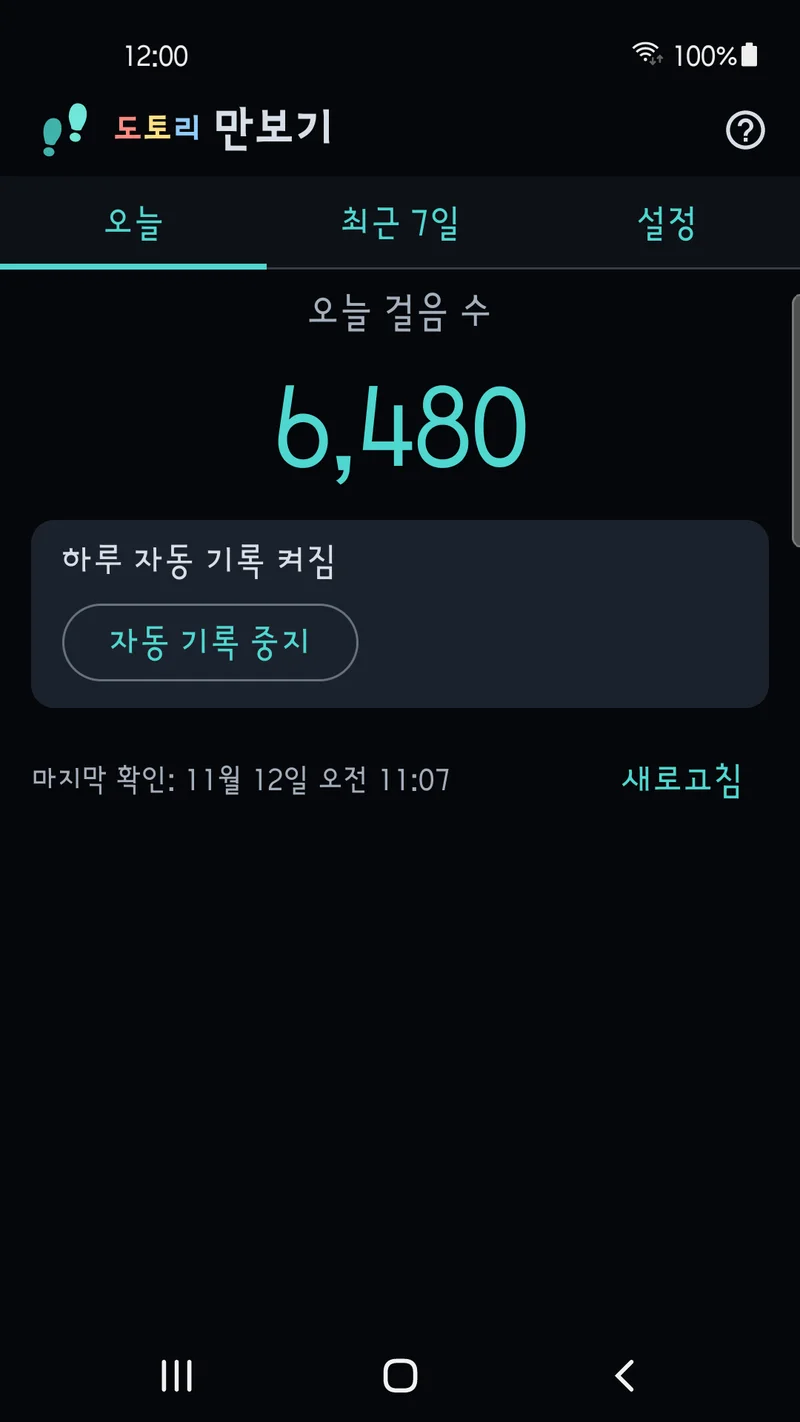
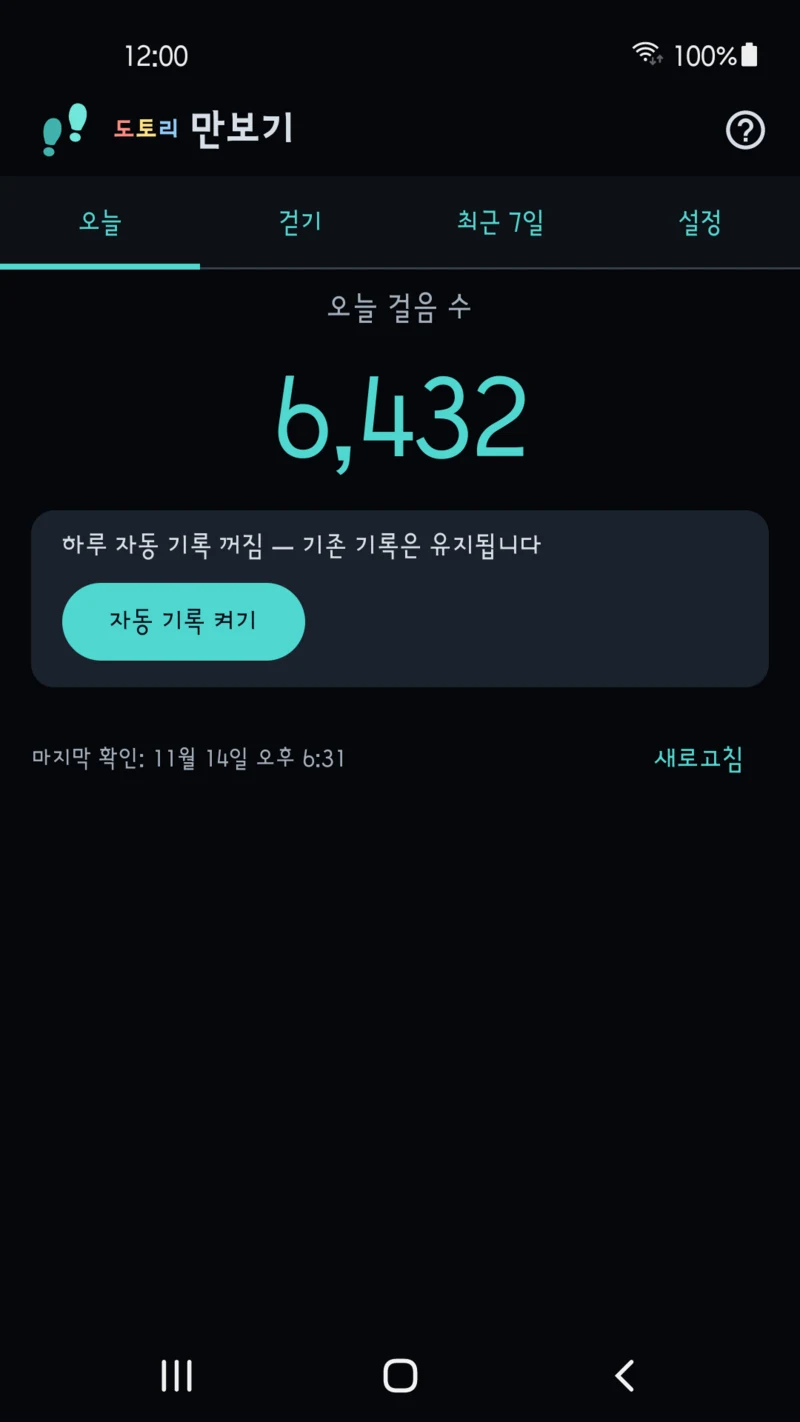
만보기 지도 경로와 승인 후 스토어 화면 반영
- 검수한 한영 화면 각 3장과 예시 데이터 안내를 제품 페이지에 반영
- 걷기 권한과 로컬 저장 설명을 정정하고 출시 배지 표시

diff --git a/ko/apps/pedometer/index.html b/ko/apps/pedometer/index.html
@@ -4,17 +4,17 @@
   <meta charset="utf-8">
   <meta name="viewport" content="width=device-width, initial-scale=1">
   <title>도토리 만보기 — 오늘 걸음 수와 최근 7일 기록</title>
-  <meta name="description" content="오늘 걸음 수를 큰 숫자로 확인하고 최근 7일 기록을 살펴보세요. 하루 자동 기록은 기본으로 켜져 있고 설정에서 끌 수 있습니다. 계정과 위치 권한이 필요 없습니다.">
+  <meta name="description" content="오늘 걸음 수와 최근 7일 기록을 확인하세요. 걷기 경로·거리·걸음 수를 기기에 저장하고 Google 지도에서 다시 보세요.">
   <link rel="canonical" href="https://droidactor.github.io/ko/apps/pedometer/">
   <link rel="alternate" hreflang="en" href="https://droidactor.github.io/apps/pedometer/">
   <link rel="alternate" hreflang="ko" href="https://droidactor.github.io/ko/apps/pedometer/">
   <link rel="alternate" hreflang="x-default" href="https://droidactor.github.io/apps/pedometer/">
   <link rel="stylesheet" href="/assets/site.css">
   <meta property="og:title" content="도토리 만보기">
-  <meta property="og:description" content="오늘 걸음 수를 한눈에. 최근 7일 기록을 확인하고 하루 자동 기록을 켜고 끄세요.">
+  <meta property="og:description" content="오늘 걸음 수와 최근 7일 기록을 확인하세요. 걷기 경로·거리·걸음 수를 기기에 저장하고 Google 지도에서 다시 보세요.">
   <meta property="og:image" content="https://droidactor.github.io/assets/icons/pedometer.png">
   <meta name="twitter:card" content="summary">
-  <script type="application/ld+json">{"@context":"https://schema.org","@type":"SoftwareApplication","name":"도토리 만보기","applicationCategory":"UtilitiesApplication","operatingSystem":"Android 8.0+","url":"https://droidactor.github.io/ko/apps/pedometer/","image":"https://droidactor.github.io/assets/icons/pedometer.png","description":"오늘 걸음 수를 큰 숫자로 확인하고 최근 7일 기록을 살펴보세요. 하루 자동 기록은 기본으로 켜져 있고 설정에서 끌 수 있습니다. 계정과 위치 권한이 필요 없습니다.","author":{"@type":"Organization","name":"droidactor"},"screenshot":["https://droidactor.github.io/assets/shots/pedometer/ko-KR/01-today.webp","https://droidactor.github.io/assets/shots/pedometer/ko-KR/02-history.webp","https://droidactor.github.io/assets/shots/pedometer/ko-KR/03-settings.webp","https://droidactor.github.io/assets/shots/pedometer/ko-KR/04-help.webp"],"dateModified":"2026-11-12"}</script>
+  <script type="application/ld+json">{"@context":"https://schema.org","@type":"SoftwareApplication","name":"도토리 만보기","applicationCategory":"UtilitiesApplication","operatingSystem":"Android 8.0+","url":"https://droidactor.github.io/ko/apps/pedometer/","image":"https://droidactor.github.io/assets/icons/pedometer.png","description":"오늘 걸음 수와 최근 7일 기록을 확인하세요. 걷기 경로·거리·걸음 수를 기기에 저장하고 Google 지도에서 다시 보세요.","author":{"@type":"Organization","name":"droidactor"},"screenshot":["https://droidactor.github.io/assets/shots/pedometer/ko-KR/01-today.webp","https://droidactor.github.io/assets/shots/pedometer/ko-KR/05-walk-route.webp","https://droidactor.github.io/assets/shots/pedometer/ko-KR/02-history.webp"],"dateModified":"2026-11-14"}</script>
 </head>
 <body>
 <header class="top"><div class="wrap"><a href="/ko/">droidactor</a><nav class="langs"><a href="/apps/pedometer/" hreflang="en" lang="en">EN</a> · <a href="/ko/apps/pedometer/" aria-current="page">한국어</a></nav></div></header>
@@ -22,24 +22,26 @@
   <div class="hero product">
     <div class="icon"><img src="/assets/icons/pedometer.png" width="64" height="64" alt=""></div>
     <h1><span class="dotori-ko"><span>도</span><span>토</span><span>리</span></span> 만보기</h1><p class="pkg">com.droidactor.pedometer</p>
-    <p>오늘 걸음 수를 한눈에. 최근 7일 기록을 확인하고 하루 자동 기록을 켜고 끄세요.</p>
-    <div class="status"><span class="badge soon">출시 준비 중</span></div>
+    <p>오늘 걸음 수와 최근 7일 기록을 확인하세요. 걷기 경로·거리·걸음 수를 기기에 저장하고 Google 지도에서 다시 보세요.</p>
+    <div class="status"><a class="play-badge" href="https://play.google.com/store/apps/details?id=com.droidactor.pedometer&amp;hl=ko"><img src="/assets/google-play-badge-ko.png" alt="Google Play에서 다운로드" height="60"></a></div>
   </div>
   <section><h2>오늘 걸음 수 바로 확인</h2><p>앱을 열면 오늘 걸음 수를 큰 숫자로, 현재 기록 상태와 함께 첫 화면에서 확인합니다. 하루 자동 기록은 기본으로 켜져 있으며, 지원되는 기기에서 신체 활동 권한을 허용하면 기록을 시작합니다.</p><p>첫 화면의 중지·재개와 설정의 하루 자동 기록 스위치는 같은 설정으로 동작합니다. 자동 기록을 끄기 전에 제공되는 미동기화 걸음 이력을 불러와 기기에 보존하며, 이미 저장한 기록은 유지됩니다.</p></section>
+  <section><h2>화면</h2><div class="screenshot-grid"><figure><img src="/assets/shots/pedometer/ko-KR/01-today.webp" width="800" height="1422" loading="lazy" decoding="async" alt="오늘 걸음 수와 하루 자동 기록 상태"><figcaption>오늘 걸음 수와 하루 자동 기록 상태</figcaption></figure><figure><img src="/assets/shots/pedometer/ko-KR/05-walk-route.webp" width="800" height="1422" loading="lazy" decoding="async" alt="Google 지도에서 다시 보는 예시 걷기 경로"><figcaption>Google 지도에서 다시 보는 예시 걷기 경로</figcaption></figure><figure><img src="/assets/shots/pedometer/ko-KR/02-history.webp" width="800" height="1422" loading="lazy" decoding="async" alt="최근 7일의 일별 걸음 수"><figcaption>최근 7일의 일별 걸음 수</figcaption></figure></div><p>걸음 수와 공개 장소인 여의도공원의 경로는 예시 데이터입니다.</p></section>
+  <section><h2>걷기 경로 저장과 지도 보기</h2><p>걷기를 시작하면 경로·거리·걸음 수를 기기에 저장합니다. 앱이나 알림에서 일시정지·재개·종료하고, 저장한 걷기를 열어 Google 지도에서 다시 봅니다. 걷기 경로에는 정확한 위치 권한과 기기 위치 설정이 필요하며 지도 표시에는 인터넷 연결이 필요합니다.</p></section>
   <section><h2>최근 7일 일별 기록</h2><p>오늘을 포함한 최근 7일의 걸음 수를 날짜별로 확인합니다. 첫 기록일이나 기록 공백이 있는 날에는 일부 구간만 측정됐다는 안내를 표시해 짧게 기록된 날을 온전한 하루로 오해하지 않게 합니다.</p></section>
-  <section><h2>화면</h2><div class="screenshot-grid"><figure><img src="/assets/shots/pedometer/ko-KR/01-today.webp" width="800" height="1422" loading="lazy" decoding="async" alt="오늘 걸음 수와 하루 자동 기록 상태"><figcaption>오늘 걸음 수와 하루 자동 기록 상태</figcaption></figure><figure><img src="/assets/shots/pedometer/ko-KR/02-history.webp" width="800" height="1422" loading="lazy" decoding="async" alt="최근 7일 날짜별 걸음 기록"><figcaption>최근 7일 날짜별 걸음 기록</figcaption></figure><figure><img src="/assets/shots/pedometer/ko-KR/03-settings.webp" width="800" height="1422" loading="lazy" decoding="async" alt="하루 자동 기록·테마·언어·화면 방향 설정"><figcaption>하루 자동 기록·테마·언어·화면 방향 설정</figcaption></figure><figure><img src="/assets/shots/pedometer/ko-KR/04-help.webp" width="800" height="1422" loading="lazy" decoding="async" alt="도움말 및 측정 안내"><figcaption>도움말 및 측정 안내</figcaption></figure></div></section>
+
   <section><h2>필요한 설정만 간단하게</h2><p>밝게·어둡게 테마, 시스템 언어 또는 한국어·English, 시스템 설정·세로·가로 화면 방향을 고릅니다. 설정에서 도움말, 앱 업데이트 확인, 광고 개인정보 옵션을 열 수 있습니다.</p></section>
   <section><h2>사용 전 확인과 알려진 한계</h2><p>지원되는 걸음 센서와 Google Play 서비스가 필요하며, Android에서 요구하는 경우 신체 활동 권한을 허용해야 합니다. 첫날은 기록을 시작한 이후의 구간만 포함됩니다. 걸음 수 반영이 지연되거나 실제 걸음 수와 차이가 날 수 있습니다.</p><p>권한을 해제하거나 자동 기록을 끈 경우, 또는 기기·Google Play 서비스의 제한으로 수집이나 이력 조회가 중단된 경우 기록이 비어 있을 수 있습니다. 제공 이력의 보관 기간은 최대 10일이므로 앱에 저장되기 전에 만료된 이력은 가져오지 못할 수 있습니다. 재부팅·강제 종료·절전 상태의 동작은 기기마다 다르며, 측정 정확도나 누락 없는 기록을 보장하지 않습니다.</p></section>
   <section><h2>앱 정보</h2><table class="spec" style="min-width:0">
-    <tr><th>상태</th><td>개발 중 — Google Play 미출시</td></tr>
+    <tr><th>상태</th><td>Google Play 출시 · 버전 코드 2</td></tr>
     <tr><th>Android</th><td>8.0 이상</td></tr>
     <tr><th>기록 방식</th><td>Google Play 서비스의 모바일 Recording API(기기 내 처리, 계정 불필요)</td></tr>
     <tr><th>저장 방식</th><td>기기 내부 전용 저장(Android 자동 클라우드 백업·기기 간 이전 제외)</td></tr>
     <tr><th>광고</th><td>첫 화면 배너 광고 자리 하나</td></tr>
   </table></section>
-  <section><h2>개인정보</h2><p>계정·로그인·위치 권한이 필요하지 않습니다. 걸음 이력은 기기에서 처리하며 개발자 서버로 업로드하거나 광고 요청에 넣지 않습니다. 첫 화면의 Google AdMob 배너는 가능한 개인정보 선택에 따라 광고 데이터를 처리할 수 있습니다.</p><p><a href="/ko/#privacy-pedometer">개인정보 처리방침</a> · <a href="mailto:droidactor@gmail.com">문의</a></p></section>
+  <section><h2>개인정보</h2><p>계정이나 로그인은 필요하지 않습니다. 하루 걸음 수 확인에는 위치 권한이 필요하지 않으며, 걷기 경로를 시작할 때 정확한 위치 권한을 사용합니다. 일별 걸음 수와 걷기 기록은 기기에 저장하며 개발자 서버나 광고 요청으로 보내지 않습니다. Google 지도와 Google AdMob 배너의 서비스 데이터 처리는 개인정보 처리방침에서 확인할 수 있습니다.</p><p><a href="/ko/#privacy-pedometer">개인정보 처리방침</a> · <a href="mailto:droidactor@gmail.com">문의</a></p></section>
   <div class="also"><strong>다른 앱</strong> · <a href="/ko/apps/"><span class="dotori-ko"><span>도</span><span>토</span><span>리</span></span> 앱 전체</a> · <a href="/ko/apps/alarm/"><span class="dotori-ko"><span>도</span><span>토</span><span>리</span></span> 알람</a> · <a href="/ko/apps/bt-keyboard/"><span class="dotori-ko"><span>도</span><span>토</span><span>리</span></span> 한글 키보드</a> · <a href="/ko/apps/bt-mouse/"><span class="dotori-ko"><span>도</span><span>토</span><span>리</span></span> 블루투스 마우스</a> · <a href="/ko/apps/bt-ppt/"><span class="dotori-ko"><span>도</span><span>토</span><span>리</span></span> PPT 리모컨</a> · <a href="/ko/apps/busanmetro/"><span class="dotori-ko"><span>도</span><span>토</span><span>리</span></span> 부산 지하철</a> · <a href="/ko/apps/currency/"><span class="dotori-ko"><span>도</span><span>토</span><span>리</span></span> 환율 계산기</a> · <a href="/ko/apps/daegumetro/"><span class="dotori-ko"><span>도</span><span>토</span><span>리</span></span> 대구 지하철</a> · <a href="/ko/apps/gps/"><span class="dotori-ko"><span>도</span><span>토</span><span>리</span></span> GPS 기록기</a> · <a href="/ko/apps/gwangjumetro/"><span class="dotori-ko"><span>도</span><span>토</span><span>리</span></span> 광주 지하철</a> · <a href="/ko/apps/hangul/"><span class="dotori-ko"><span>도</span><span>토</span><span>리</span></span> 한글 배우기</a> · <a href="/ko/apps/hannum/"><span class="dotori-ko"><span>도</span><span>토</span><span>리</span></span> 한국어 숫자 읽기</a> · <a href="/ko/apps/idphoto/"><span class="dotori-ko"><span>도</span><span>토</span><span>리</span></span> 증명사진</a> · <a href="/ko/apps/koreametro/"><span class="dotori-ko"><span>도</span><span>토</span><span>리</span></span> 한국 지하철</a> · <a href="/ko/apps/lgtv/"><span class="dotori-ko"><span>도</span><span>토</span><span>리</span></span> LG TV 리모컨</a> · <a href="/ko/apps/morse/"><span class="dotori-ko"><span>도</span><span>토</span><span>리</span></span> 모스</a> · <a href="/ko/apps/namecard/"><span class="dotori-ko"><span>도</span><span>토</span><span>리</span></span> 명함 스캐너</a> · <a href="/ko/apps/numpad/"><span class="dotori-ko"><span>도</span><span>토</span><span>리</span></span> 블루투스 넘패드</a> · <a href="/ko/apps/receipt/"><span class="dotori-ko"><span>도</span><span>토</span><span>리</span></span> 영수증 스캐너</a> · <a href="/ko/apps/roman/"><span class="dotori-ko"><span>도</span><span>토</span><span>리</span></span> 로마 숫자 변환기</a> · <a href="/ko/apps/seoulmetro/"><span class="dotori-ko"><span>도</span><span>토</span><span>리</span></span> 서울 지하철</a> · <a href="/ko/apps/ssh-scout/"><span class="dotori-ko"><span>도</span><span>토</span><span>리</span></span> SSH 터미널</a> · <a href="/ko/apps/tokyometro/"><span class="dotori-ko"><span>도</span><span>토</span><span>리</span></span> 도쿄 지하철</a> · <a href="/ko/apps/unit/"><span class="dotori-ko"><span>도</span><span>토</span><span>리</span></span> 단위 변환기</a> · <a href="/ko/apps/wifi-scout/"><span class="dotori-ko"><span>도</span><span>토</span><span>리</span></span> 와이파이 스캐너</a> · <a href="/ko/apps/yt-downloader/"><span class="dotori-ko"><span>도</span><span>토</span><span>리</span></span> YouTube Downloader</a> · <a href="/ko/apps/lunar/">도토리 날짜·음력 계산기</a> · <a href="/ko/apps/daejeonmetro/">도토리 대전 지하철</a> · <a href="/ko/apps/macropad/">도토리 블루투스 매크로 패드</a> · <a href="/ko/apps/counter/">도토리 계수기</a></div>
-  <footer><p>droidactor의 Android 앱.</p><p><a href="/ko/">홈</a> · <a href="/ko/apps/">앱 전체</a> · <a href="/apps/pedometer/" hreflang="en" lang="en">English</a></p></footer>
+  <footer><p>droidactor의 Android 앱.</p><p><a href="/ko/">홈</a> · <a href="/ko/apps/">앱 전체</a> · <a href="/apps/pedometer/" hreflang="en" lang="en">English</a></p><p class="tm">Google Play 및 Google Play 로고는 Google LLC의 상표입니다.</p></footer>
 </main>
 </body>
 </html>

diff --git a/apps/pedometer/index.html b/apps/pedometer/index.html
@@ -4,17 +4,17 @@
   <meta charset="utf-8">
   <meta name="viewport" content="width=device-width, initial-scale=1">
   <title>Dotori Pedometer — today’s steps and a seven-day history</title>
-  <meta name="description" content="See today’s steps in large numbers and review your last seven days. Automatic recording is on by default and can be turned off in Settings. No account or location permission.">
+  <meta name="description" content="See today’s steps and seven-day history. Save walks on your phone and view their routes on Google Maps.">
   <link rel="canonical" href="https://droidactor.github.io/apps/pedometer/">
   <link rel="alternate" hreflang="en" href="https://droidactor.github.io/apps/pedometer/">
   <link rel="alternate" hreflang="ko" href="https://droidactor.github.io/ko/apps/pedometer/">
   <link rel="alternate" hreflang="x-default" href="https://droidactor.github.io/apps/pedometer/">
   <link rel="stylesheet" href="/assets/site.css">
   <meta property="og:title" content="Dotori Pedometer">
-  <meta property="og:description" content="Today’s steps, at a glance. Check the last seven days and turn automatic recording on or off.">
+  <meta property="og:description" content="See today’s steps and seven-day history. Save walks on your phone and view their routes on Google Maps.">
   <meta property="og:image" content="https://droidactor.github.io/assets/icons/pedometer.png">
   <meta name="twitter:card" content="summary">
-  <script type="application/ld+json">{"@context":"https://schema.org","@type":"SoftwareApplication","name":"Dotori Pedometer","applicationCategory":"UtilitiesApplication","operatingSystem":"Android 8.0+","url":"https://droidactor.github.io/apps/pedometer/","image":"https://droidactor.github.io/assets/icons/pedometer.png","description":"See today’s steps in large numbers and review your last seven days. Automatic recording is on by default and can be turned off in Settings. No account or location permission.","author":{"@type":"Organization","name":"droidactor"},"screenshot":["https://droidactor.github.io/assets/shots/pedometer/en-US/01-today.webp","https://droidactor.github.io/assets/shots/pedometer/en-US/02-history.webp","https://droidactor.github.io/assets/shots/pedometer/en-US/03-settings.webp","https://droidactor.github.io/assets/shots/pedometer/en-US/04-help.webp"],"dateModified":"2026-11-12"}</script>
+  <script type="application/ld+json">{"@context":"https://schema.org","@type":"SoftwareApplication","name":"Dotori Pedometer","applicationCategory":"UtilitiesApplication","operatingSystem":"Android 8.0+","url":"https://droidactor.github.io/apps/pedometer/","image":"https://droidactor.github.io/assets/icons/pedometer.png","description":"See today’s steps and seven-day history. Save walks on your phone and view their routes on Google Maps.","author":{"@type":"Organization","name":"droidactor"},"screenshot":["https://droidactor.github.io/assets/shots/pedometer/en-US/01-today.webp","https://droidactor.github.io/assets/shots/pedometer/en-US/05-walk-route.webp","https://droidactor.github.io/assets/shots/pedometer/en-US/02-history.webp"],"dateModified":"2026-11-14"}</script>
 </head>
 <body>
 <header class="top"><div class="wrap"><a href="/">droidactor</a><nav class="langs"><a href="/apps/pedometer/" aria-current="page">EN</a> · <a href="/ko/apps/pedometer/" hreflang="ko" lang="ko">한국어</a></nav></div></header>
@@ -22,24 +22,26 @@
   <div class="hero product">
     <div class="icon"><img src="/assets/icons/pedometer.png" width="64" height="64" alt=""></div>
     <h1><span class="dotori">Dotori</span> Pedometer</h1><p class="pkg">com.droidactor.pedometer</p>
-    <p>Today’s steps, at a glance. Check the last seven days and turn automatic recording on or off.</p>
-    <div class="status"><span class="badge soon">Coming soon</span></div>
+    <p>See today’s steps and seven-day history. Save walks on your phone and view their routes on Google Maps.</p>
+    <div class="status"><a class="play-badge" href="https://play.google.com/store/apps/details?id=com.droidactor.pedometer&amp;hl=en"><img src="/assets/google-play-badge-en.png" alt="Get it on Google Play" height="60"></a></div>
   </div>
   <section><h2>Today’s steps</h2><p>Open the app to see today’s step count in large numbers, with the current recording status on the main screen. Automatic recording is on by default; it starts once physical activity permission is granted on a supported device.</p><p>Pause or resume automatic recording from the main screen or in Settings. Both controls use the same setting. Before recording is turned off, the app reads available unsynced step history into local storage, and records you already saved stay.</p></section>
+  <section><h2>Screens</h2><div class="screenshot-grid"><figure><img src="/assets/shots/pedometer/en-US/01-today.webp" width="800" height="1422" loading="lazy" decoding="async" alt="Today’s steps and automatic recording status"><figcaption>Today’s steps and automatic recording status</figcaption></figure><figure><img src="/assets/shots/pedometer/en-US/05-walk-route.webp" width="800" height="1422" loading="lazy" decoding="async" alt="Saved sample walking route on Google Maps"><figcaption>Saved sample walking route on Google Maps</figcaption></figure><figure><img src="/assets/shots/pedometer/en-US/02-history.webp" width="800" height="1422" loading="lazy" decoding="async" alt="Daily step counts for the last seven days"><figcaption>Daily step counts for the last seven days</figcaption></figure></div><p>Step counts and the route at public Yeouido Park are sample data.</p></section>
+  <section><h2>Save a walk and view its route</h2><p>Start a walk to save its route, distance and steps on your phone. Pause, resume or finish from the app or notification, then reopen the saved walk on Google Maps. Precise location permission and device location are needed for walking routes; map display needs an internet connection.</p></section>
   <section><h2>Recent seven days</h2><p>Review daily step counts for the last seven days. Notices mark the first recording day and days with recording gaps or partial measurements, so a short day is not mistaken for a full one.</p></section>
-  <section><h2>Screens</h2><div class="screenshot-grid"><figure><img src="/assets/shots/pedometer/en-US/01-today.webp" width="800" height="1422" loading="lazy" decoding="async" alt="Today’s steps and automatic recording status"><figcaption>Today’s steps and automatic recording status</figcaption></figure><figure><img src="/assets/shots/pedometer/en-US/02-history.webp" width="800" height="1422" loading="lazy" decoding="async" alt="Daily step counts for the last seven days"><figcaption>Daily step counts for the last seven days</figcaption></figure><figure><img src="/assets/shots/pedometer/en-US/03-settings.webp" width="800" height="1422" loading="lazy" decoding="async" alt="Automatic recording, theme, language and orientation settings"><figcaption>Automatic recording, theme, language and orientation settings</figcaption></figure><figure><img src="/assets/shots/pedometer/en-US/04-help.webp" width="800" height="1422" loading="lazy" decoding="async" alt="Help and measurement guide"><figcaption>Help and measurement guide</figcaption></figure></div></section>
+
   <section><h2>Simple settings</h2><p>Choose a light or dark theme, follow the system language or pick English or Korean, and follow the system screen orientation or pick portrait or landscape. Help, app update checks and advertising privacy options are in Settings.</p></section>
   <section><h2>Requirements and limits</h2><p>Recording needs compatible step sensors, supported Google Play services and, where Android requires it, physical activity permission. The first day includes only the period after recording begins. Counts can update with a delay and can differ from the steps you actually take.</p><p>Gaps can occur when permission is removed, recording is paused, or device and Google Play services restrictions prevent collection or history retrieval. Google Play services keeps up to ten days of history, so history that expires before the app saves it may be unavailable. Reboot, force stop and battery-saving behavior vary by device. Step counts and uninterrupted recording are not guaranteed.</p></section>
   <section><h2>Details</h2><table class="spec" style="min-width:0">
-    <tr><th>Status</th><td>In development — not yet released on Google Play</td></tr>
+    <tr><th>Status</th><td>Available on Google Play · version code 2</td></tr>
     <tr><th>Android</th><td>8.0 or later</td></tr>
     <tr><th>Recording</th><td>Recording API on mobile in Google Play services (on-device, no account)</td></tr>
     <tr><th>Storage</th><td>On-device only (Android automatic cloud backup and device-to-device transfer excluded)</td></tr>
     <tr><th>Advertising</th><td>One banner placement on the main screen</td></tr>
   </table></section>
-  <section><h2>Privacy</h2><p>No account, sign-in or location permission is needed. Step history is processed on your device and is not uploaded to a developer server or added to ad requests. A Google AdMob banner on the main screen may process advertising data under the available privacy choices.</p><p><a href="/#privacy-pedometer">Full privacy policy</a> · <a href="mailto:droidactor@gmail.com">Support</a></p></section>
+  <section><h2>Privacy</h2><p>No account or sign-in is needed. Daily step counting does not need location permission; starting a walking route requires precise location. Step history and walking records stay on your device and are not uploaded to a developer server or added to ad requests. Google Maps and the Google AdMob banner process their own service data as explained in the privacy policy.</p><p><a href="/#privacy-pedometer">Full privacy policy</a> · <a href="mailto:droidactor@gmail.com">Support</a></p></section>
   <div class="also"><strong>Other apps</strong> · <a href="/apps/">All <span class="dotori">Dotori</span> apps</a> · <a href="/apps/alarm/"><span class="dotori">Dotori</span> Alarm Clock</a> · <a href="/apps/bt-keyboard/"><span class="dotori">Dotori</span> Bluetooth Keyboard</a> · <a href="/apps/bt-mouse/"><span class="dotori">Dotori</span> Bluetooth Mouse</a> · <a href="/apps/bt-ppt/"><span class="dotori">Dotori</span> Bluetooth PPT Remote</a> · <a href="/apps/busanmetro/"><span class="dotori">Dotori</span> Busan Metro</a> · <a href="/apps/currency/"><span class="dotori">Dotori</span> Currency Converter</a> · <a href="/apps/daegumetro/"><span class="dotori">Dotori</span> Daegu Metro</a> · <a href="/apps/gps/"><span class="dotori">Dotori</span> GPS Tracker</a> · <a href="/apps/gwangjumetro/"><span class="dotori">Dotori</span> Gwangju Metro</a> · <a href="/apps/hangul/"><span class="dotori">Dotori</span> Learn Hangul</a> · <a href="/apps/hannum/"><span class="dotori">Dotori</span> Learn Korean Numbers</a> · <a href="/apps/idphoto/"><span class="dotori">Dotori</span> ID Photo Maker</a> · <a href="/apps/koreametro/"><span class="dotori">Dotori</span> Korea Metro</a> · <a href="/apps/lgtv/"><span class="dotori">Dotori</span> LG TV Remote</a> · <a href="/apps/morse/"><span class="dotori">Dotori</span> Morse</a> · <a href="/apps/namecard/"><span class="dotori">Dotori</span> Business Card Scanner</a> · <a href="/apps/numpad/"><span class="dotori">Dotori</span> Bluetooth Numpad</a> · <a href="/apps/receipt/"><span class="dotori">Dotori</span> Receipt Scanner</a> · <a href="/apps/roman/"><span class="dotori">Dotori</span> Roman Numerals</a> · <a href="/apps/seoulmetro/"><span class="dotori">Dotori</span> Seoul Metro</a> · <a href="/apps/ssh-scout/"><span class="dotori">Dotori</span> SSH Terminal</a> · <a href="/apps/tokyometro/"><span class="dotori">Dotori</span> Tokyo Metro</a> · <a href="/apps/unit/"><span class="dotori">Dotori</span> Unit Converter</a> · <a href="/apps/wifi-scout/"><span class="dotori">Dotori</span> WiFi Scanner</a> · <a href="/apps/yt-downloader/"><span class="dotori">Dotori</span> YouTube Downloader</a> · <a href="/apps/lunar/">Dotori Date &amp; Lunar Calculator</a> · <a href="/apps/daejeonmetro/">Dotori Daejeon Metro</a> · <a href="/apps/macropad/">Dotori Bluetooth Macro Pad</a> · <a href="/apps/counter/">Dotori Tally Counter</a></div>
-  <footer><p>Android apps by droidactor.</p><p><a href="/">Home</a> · <a href="/apps/">All apps</a> · <a href="/ko/apps/pedometer/" hreflang="ko" lang="ko">한국어</a></p></footer>
+  <footer><p>Android apps by droidactor.</p><p><a href="/">Home</a> · <a href="/apps/">All apps</a> · <a href="/ko/apps/pedometer/" hreflang="ko" lang="ko">한국어</a></p><p class="tm">Google Play and the Google Play logo are trademarks of Google LLC.</p></footer>
 </main>
 </body>
 </html>
